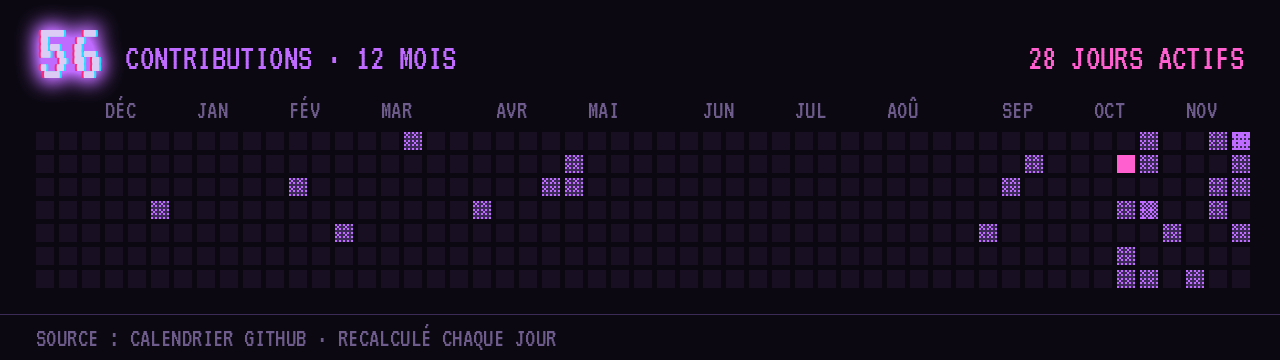
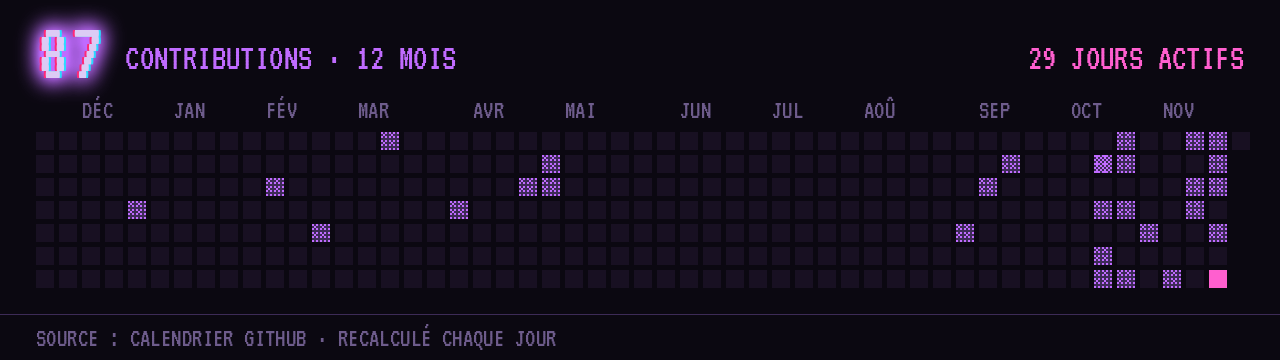
Profil : mise à jour des données

diff --git a/README.md b/README.md
@@ -5,7 +5,7 @@
 <br>
 
 <a href="https://github.com/natachaaaaa?tab=followers"><img src="https://img.shields.io/github/followers/natachaaaaa?style=for-the-badge&labelColor=0b0811&color=c06bff&label=followers" alt="Followers"></a>
-<a href="https://github.com/natachaaaaa?tab=repositories"><img src="https://img.shields.io/badge/dépôts_publics-14-c06bff?style=for-the-badge&labelColor=0b0811" alt="14 dépôts publics"></a>
+<a href="https://github.com/natachaaaaa?tab=repositories"><img src="https://img.shields.io/badge/dépôts_publics-15-c06bff?style=for-the-badge&labelColor=0b0811" alt="15 dépôts publics"></a>
 <img src="https://img.shields.io/badge/focus-C%20/%20C%2B%2B-ff5fcf?style=for-the-badge&labelColor=0b0811" alt="Focus : C / C++">
 <a href="https://ncombes.fr"><img src="https://img.shields.io/badge/site-ncombes.fr-c06bff?style=for-the-badge&labelColor=0b0811" alt="Site"></a>
 
@@ -21,9 +21,9 @@
 
 ## ◉ Activité
 
-<img src="docs/activity.png" width="100%" alt="Calendrier des contributions : 56 sur douze mois, 28 jours actifs">
+<img src="docs/activity.png" width="100%" alt="Calendrier des contributions : 87 sur douze mois, 29 jours actifs">
 
-**56** contributions sur les douze derniers mois, réparties sur **28** jours. Recalculé chaque jour à partir du calendrier GitHub.
+**87** contributions sur les douze derniers mois, réparties sur **29** jours. Recalculé chaque jour à partir du calendrier GitHub.
 
 <img src="docs/divider.png" width="100%" alt="">
 
